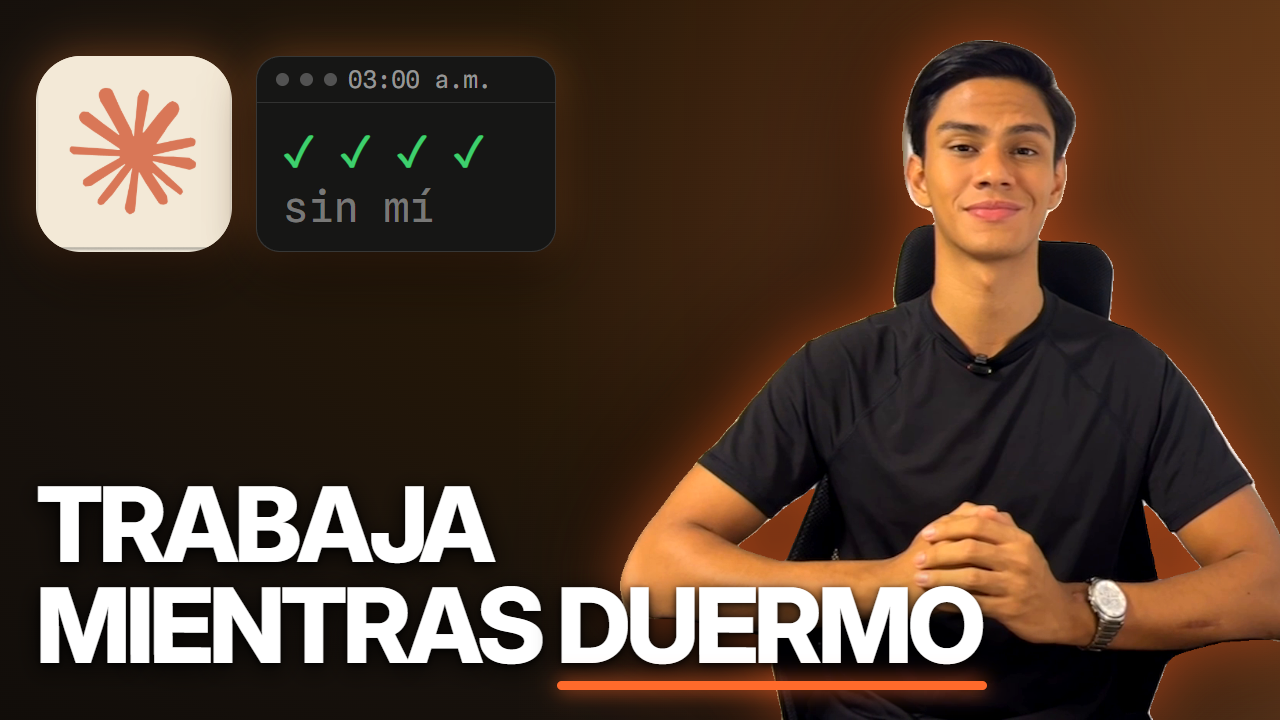
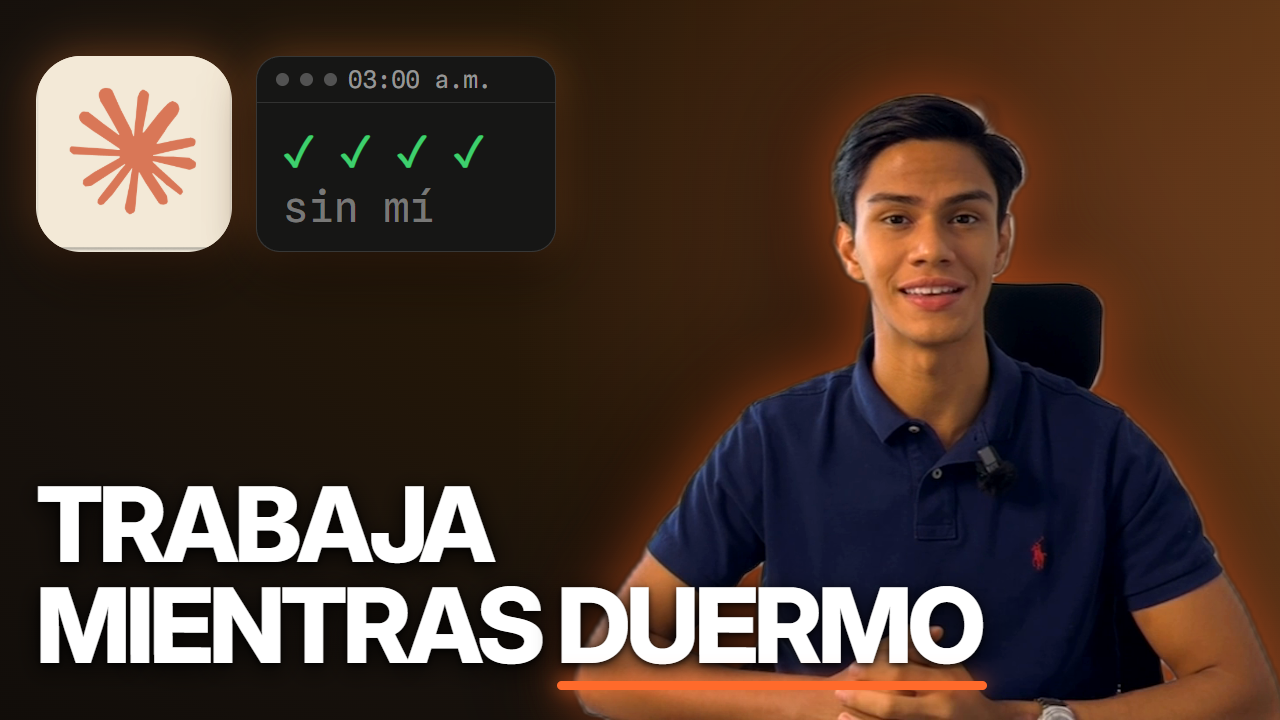
feat(marca-personal): miniatura del 03 con el frame REAL de la grabacion de hoy
Frame t=8.20s de ONIA-YT-2026-09-17-16-15-14.mp4, elegido con el
puntuador del video 01 (501 caras: nitidez, frontal, sonrisa, boca
CERRADA - el ancho de boca mide hablar). Recorte con rembg
u2net_human_seg; el fondo claro del set nuevo separa limpio, sin el
problema negro-sobre-negro del 01.

Changed region(s): [[0.4375, 0.0306, 1.0, 1.0]]

diff --git a/hermes-content/carousels/out/yt-claude-code-automatizacion/miniatura.html b/hermes-content/carousels/out/yt-claude-code-automatizacion/miniatura.html
@@ -14,7 +14,7 @@ body{font-family:'Inter',system-ui,sans-serif;position:relative;background:
   radial-gradient(130% 120% at 78% 30%, #3a2312 0%, #241708 34%, #17110c 62%, #0d0a07 100%)}
 body::after{content:'';position:absolute;inset:0;
   background:linear-gradient(90deg, transparent 40%, rgba(255,116,48,.16) 78%, rgba(255,138,62,.26) 100%)}
-#sujeto{position:absolute;right:-26px;bottom:0;height:680px;z-index:2;
+#sujeto{position:absolute;right:-30px;bottom:0;height:640px;z-index:2;
   filter:drop-shadow(0 0 34px rgba(255,106,43,.55)) drop-shadow(-14px 0 60px rgba(0,0,0,.65))
          brightness(1.06) contrast(1.04)}
 #duo{position:absolute;left:36px;top:56px;display:flex;align-items:center;gap:24px;z-index:3}
@@ -40,7 +40,7 @@ body::after{content:'';position:absolute;inset:0;
 #tit .dos::after{content:'';position:absolute;left:0;right:-6px;bottom:-14px;height:9px;
   background:var(--naranja);border-radius:5px;box-shadow:0 0 20px rgba(255,106,43,.85)}
 </style>
-<img id="sujeto" src="sergio-sonrisa.png" alt="">
+<img id="sujeto" src="sergio-03.png" alt="">
 <div id="duo">
   <div class="tile"><img src="claude.png" alt=""></div>
   <div class="term"><div class="barra"><i></i><i></i><i></i><em>03:00 a.m.</em></div><pre><span class="ok">✓ ✓ ✓ ✓</span>
